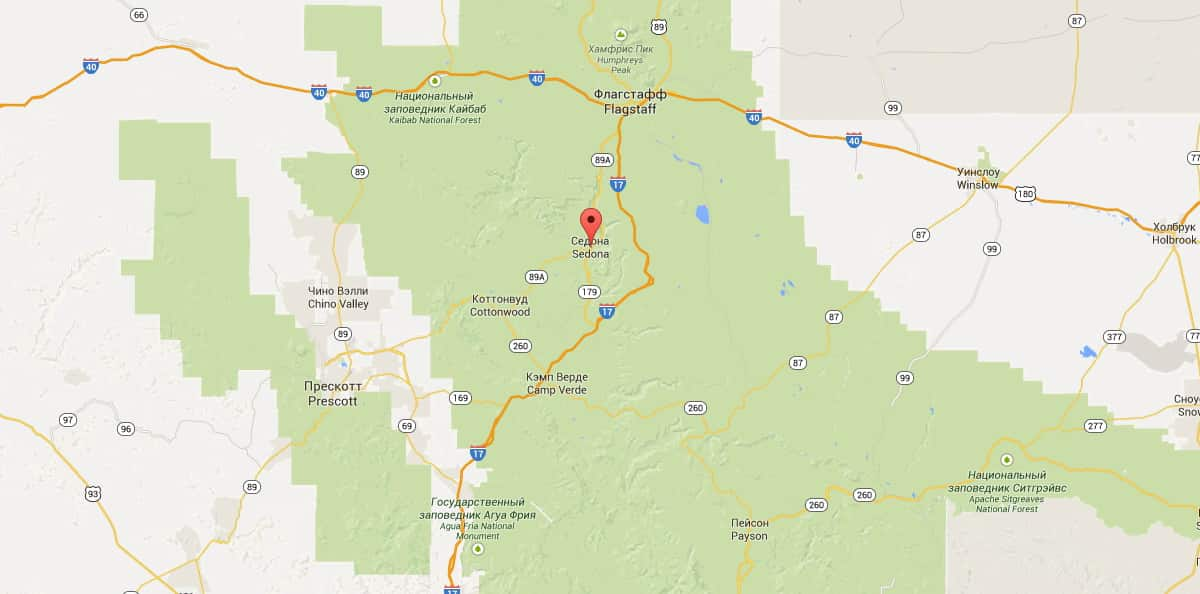
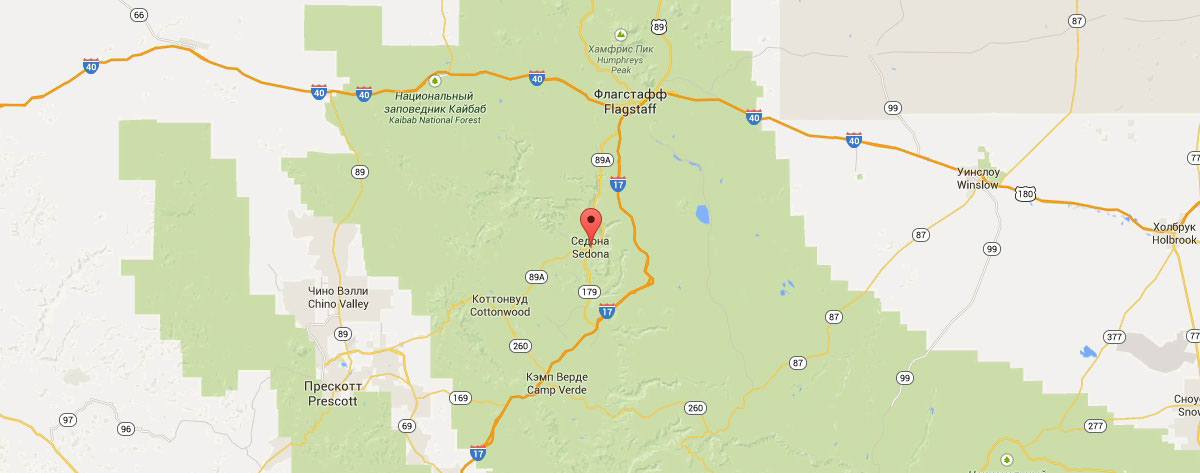
доверстал главную, кроме формы и интерактивности

diff --git a/index.html b/index.html
@@ -58,7 +58,6 @@
                 <span>— №1 —</span>
                 <p>Седона-не аттракцион для туристов, там течет своя жизнь</p>
               </div>
-              <!-- <img src="img/layer-10.jpg" title="Городок Седона" alt="Городок Седона" width="800" height="256"> -->
             </li>
             <li class="advantages-list-item">
               <div class="advantages-text-block advantages-text-block-right">
@@ -66,7 +65,6 @@
                 <span>— №2 —</span>
                 <p>Да, по нему можно пройти! Если конечно вы осмелитесь</p>
               </div>
-              <!-- <img src="img/layer-5.jpg" title="Мост дьявола" alt="Мост дьявола" width="800" height="256"> -->
             </li>
             <li class="advantages-list-item">
               <div class="advantages-text-block">
@@ -116,10 +114,10 @@
         <section class="search-section">
           <h2 class="visually-hidden">Поиск лучших предложений</h2>
           <strong>Заинтересовались?</strong>
-          <p>Укажите предполагаемые даты поездки, и мы покажем вам лучшие предложения гостиниц в Седоне</p>
+          <p>Укажите предполагаемые даты поездки,<br> и мы покажем вам лучшие предложения гостиниц в Седоне</p>
           <button class="button button-search">Поиск гостиницы в Седоне</button>
           <!--MODAL-->
-          <form action="https://echo.htmlacademy.ru/" method="POST" class="modal">
+          <!-- <form action="https://echo.htmlacademy.ru/" method="POST" class="modal">
             <p class="form-item">
               <label>Дата заезда:
                 <input type="date" name="arrival" value="2017-04-24">
@@ -139,20 +137,22 @@
               </label>
             </p>
             <button type="submit" class="button button-find">Найти</button>
-          </form>
+          </form> -->
           <!--MAP-->
-          <img src="img/map.jpg" alt="Как до нас добраться" width="1200" height="593">
+          <img src="img/map.jpg" alt="Как до нас добраться" width="1200" height="473">
         </section>
-        <section class="socials">
+        <section class="footer-socials">
           <h2 class="visually-hidden">Мы в соцсетях</h2>
-          <b>#Visitsedona</b>
-          <ul class="social-list">
-            <li class="social-list-item"><a href="#" aria-label="Страница нашего сервиса в Твиттере"></a></li>
-            <li class="social-list-item"><a href="#" aria-label="Страница нашего сервиса на Фэйсбуке"></a></li>
-            <li class="social-list-item"><a href="#" aria-label="Страница нашего сервиса на Ютубе"></a></li>
-          </ul>
-          <a class="developer" href="https://htmlacademy.ru/">
-            Website by
+          <b class="footer-socials-item">#Visitsedona</b>
+          <div class="footer-socials-item">
+            <ul class="social-list">
+              <li class="social-list-item"><a href="#" aria-label="Страница нашего сервиса в Твиттере"></a></li>
+              <li class="social-list-item"><a href="#" aria-label="Страница нашего сервиса на Фэйсбуке"></a></li>
+              <li class="social-list-item"><a href="#" aria-label="Страница нашего сервиса на Ютубе"></a></li>
+            </ul>
+          </div>
+          <a class="developer footer-socials-item" href="https://htmlacademy.ru/">
+            <sup>Website by</sup>
             <img src="img/logo-name.svg" alt="Разработано HTMLAcademy" width="101" height="40">
           </a>
         </section>

diff --git a/css/main.css b/css/main.css
@@ -219,6 +219,7 @@ body {
     text-align: center;
     margin-bottom: 21px;
 }
+
 /* ПОДРАЗДЕЛ ПРЕИМУЩЕСТВ */
 
 .features-list {
@@ -232,14 +233,162 @@ body {
 
 .features-list-item {
     width: 400px;
+    padding: 0 73px;
+    padding-top: 156px;
+    padding-bottom: 81px;
+    text-align: center;
+    position: relative;
+}
+
+.features-list-item::before {
+    position: absolute;
+    top: 60px;
+    left: 160px;
+    content: "";
+    width: 76px;
+    height: 76px;
+}
+
+.features-list-item:first-child::before {
+    background-image: url(../img/home.svg);
+    background-size: 75px 72px;
+    background-position: center;
+    background-repeat: no-repeat;
+}
+
+.features-list-item:last-child::before {
+    background-image: url(../img/souvenirs.svg);
+    background-size: 64px 76px;
+    background-position: center;
+    background-repeat: no-repeat;
+}
+
+.features-list-item:nth-child(2)::before {
+    background-image: url(../img/food.svg);
+    background-size: 74px 70px;
+    background-position: center;
+    background-repeat: no-repeat;
 }
 
 .features-list-item h3 {
     color: #000;
+    margin-bottom: 30px;
 }
 
-.features-list-item p {
-    
+/* БЛОК ПОИСКА */
+
+.search-section {
+    text-align: center;
+    padding-top: 55px;
+}
+
+.search-section p {
+    font-size: 14px;
+    line-height: 24px;
+    margin: 0;
+    margin-top: 30px;
+    margin-bottom: 50px;
+}
+
+.search-section strong {
+    font-size: 30px;
+    line-height: 36px;
+    font-weight: bold;
+    color: #000;
+}
+
+.button-search {
+    font: inherit;
+    text-transform: uppercase;
+    color: rgba(255, 255, 255, 0.9);
+    font-weight: bold;
+    font-size: 21px;
+    line-height: 26px;
+    padding-top: 35px;
+    padding-bottom: 33px;
+    padding-left: 140px;
+    padding-right: 139px;
+    background-color: #766357;
+    border: 0;
+}
+
+/* FOOTER */
+
+.footer-socials {
+    display: flex;
+    height: 120px;
+    flex-basis: 400px;
+}
+
+.footer-socials-item {
+    flex-basis: 400px;
+    text-align: center;
+}
+
+.footer-socials b {
+    font-size: 21px;
+    line-height: 26px;
+    font-weight: bold;
+    color: #000;
+    margin-top: 51px;
+    margin-bottom: 53px;
+}
+
+.social-list {
+    display: flex;
+    padding: 0;
+    margin: 0;
+    width: 150px;
+    justify-content: space-between;
+    list-style: none;
+}
+
+.footer-socials div {
+    padding: 36px 124px;
+    margin: 0;
+    box-sizing: border-box;
+}
+
+.social-list-item {
+    width: 46px;
+    height: 48px;
+    background-color: #81b3d2;
+}
+
+.social-list-item:first-child {
+    background-image: url(../img/twitter.svg);
+    background-position: center;
+    background-repeat: no-repeat;
+    background-size: 17px 15px;
+}
+
+.social-list-item:nth-child(2) {
+    background-image: url(../img/facebook.svg);
+    background-position: center;
+    background-repeat: no-repeat;
+    background-size: 12px 22px;
+}
+
+.social-list-item:last-child {
+    background-image: url(../img/youtube.svg);
+    background-position: center;
+    background-repeat: no-repeat;
+    background-size: 20px 16px;
+}
+
+.developer {
+    margin-top: 39px;
+    margin-bottom: 40px;
+    text-align: center;
+    text-decoration: none;
+    color: #000;
+    font-size: 14px;
+    line-height: 26px;
+}
+
+.developer sup {
+    top: -1.5em;
+    margin-right: 5px;
 }
 
 
